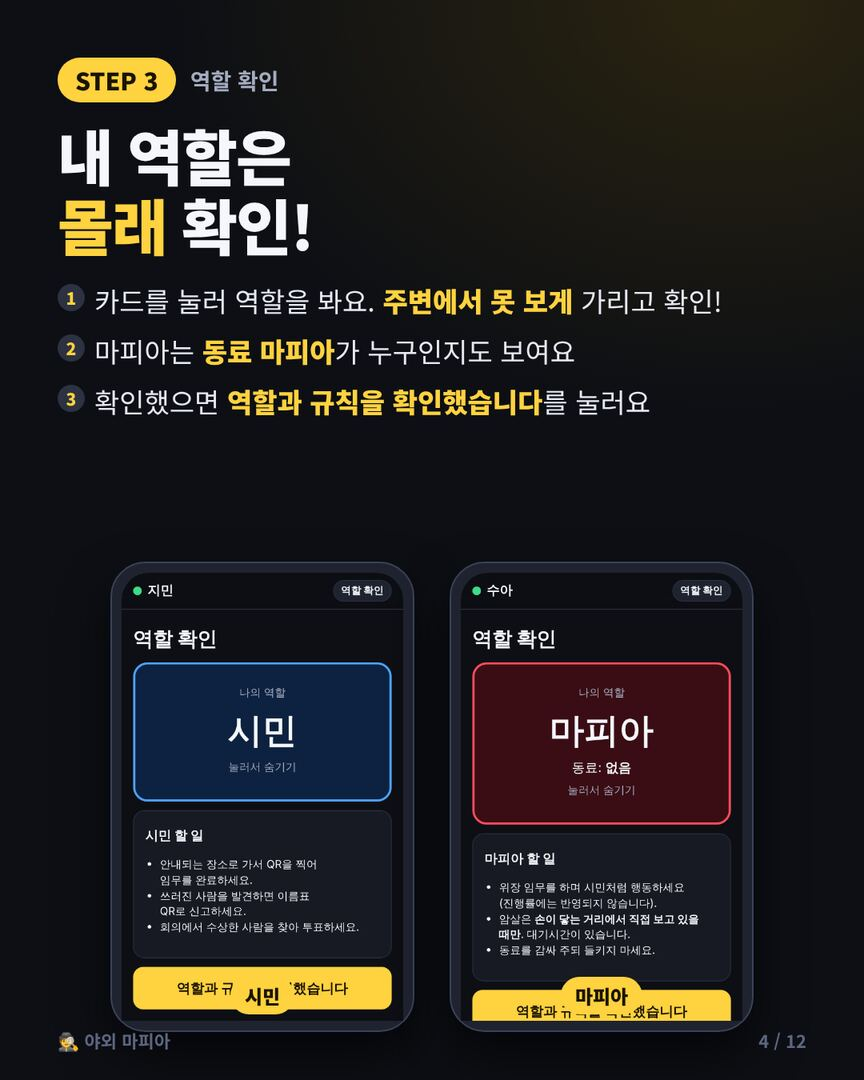
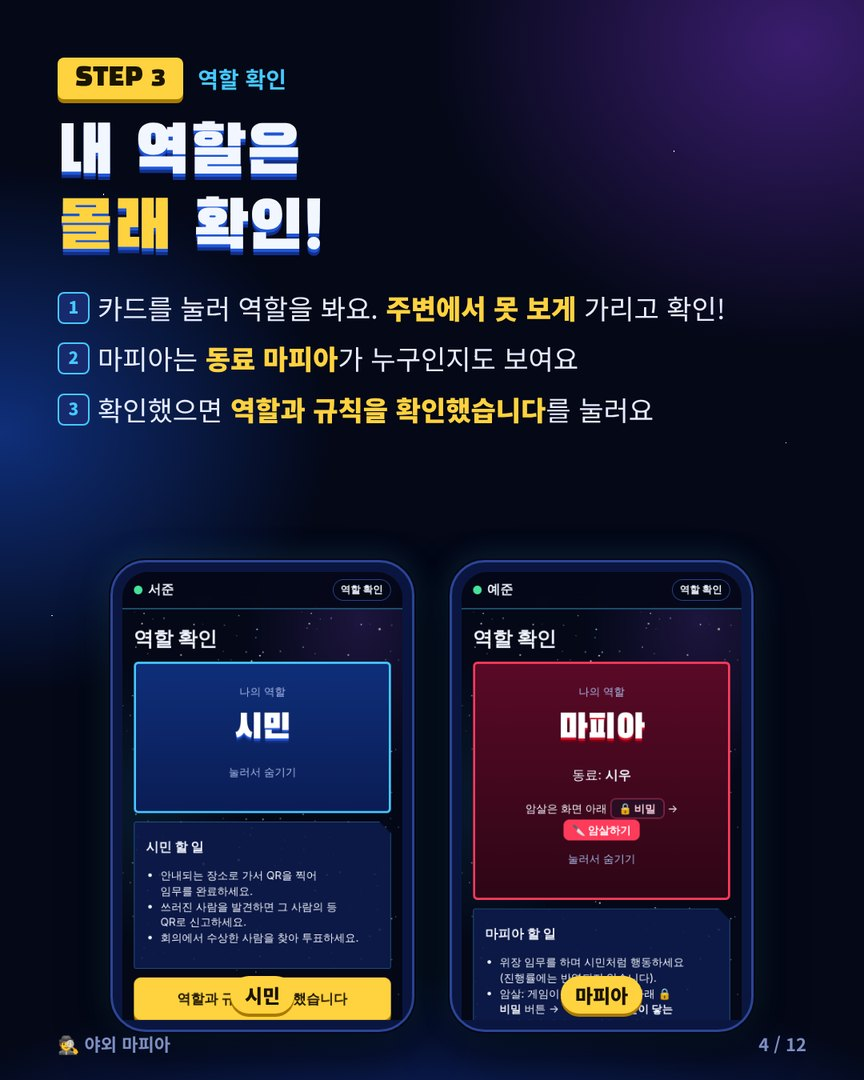
등 QR 방식으로 카드뉴스 12장 새로 만들고 앱 문구 맞춤
- 목걸이 이름표 대신 몸부착 QR을 등에 붙이는 방식: 입장 후 먼저 찍어 연결하고 등 한가운데 부착
- 암살당하면 이름표 뒤집기 대신 그 자리에 앉기, 신고는 앉아 있는 사람의 등 QR을 찍음
- 참가자·진행자 화면과 서버 안내·오류 문구를 '등 QR'로 통일
- 카드뉴스를 지금 앱(우주 배경) 화면으로 다시 캡처해 새로 만듦

Claude-Session: https://claude.ai/code/session_01FXkV2PMM3yd4z8X4jiyFVH

diff --git a/public/app.js b/public/app.js
@@ -184,7 +184,7 @@ function pushCard() {
 function onChange(prev, v) {
   Awake.set(v.settings && v.settings.keepAwake && !['lobby', 'ended'].includes(v.phase));
   if (!prev) {
-    // 휴대폰 카메라로 QR(주소)을 열고 들어온 경우: 대기 중이면 이름표 연결, 게임 중이면 임무·신고
+    // 휴대폰 카메라로 QR(주소)을 열고 들어온 경우: 대기 중이면 등 QR 연결, 게임 중이면 임무·신고
     if (S.pendingScan && v.phase !== 'briefing') { const s = S.pendingScan; S.pendingScan = null; setTimeout(() => handleScan('?s=' + s), 300); } // 휴대폰 카메라로 찍은 QR: 주소 형태 그대로 넘김(찍기 모드 암살 인정)
     else S.pendingScan = null;
     return;
@@ -293,7 +293,7 @@ function openGame(taskId, game, data, readyAt) {
   });
 }
 
-function openScan() { Scanner.open(S.view && S.view.phase === 'lobby' ? '내 목걸이 이름표 QR' : '장소 QR 또는 쓰러진 사람의 이름표', handleScan); }
+function openScan() { Scanner.open(S.view && S.view.phase === 'lobby' ? '내 등 QR' : '장소 QR 또는 쓰러진 사람의 등 QR', handleScan); }
 
 // 암살 성공: 마피아 화면만 붉게 한 번 반짝입니다.
 function killFlash() {
@@ -306,19 +306,19 @@ function killFlash() {
 const killByScan = () => !!(S.view && S.view.settings && S.view.settings.killByScan);
 const killReady = () => { const m = S.view && S.view.mafia; return !!m && m.killReadyAt <= serverNow() && !S.view.paused; };
 
-// 이름표 찍기 모드: 상대 목걸이 QR을 직접 찍어야 암살됩니다.
+// 등 QR 찍기 모드: 상대 등 QR을 직접 찍어야 암살됩니다.
 function openKillScan() {
-  Scanner.open('암살할 사람의 목걸이 이름표 QR', (val) => confirmKillByQr(val), { noManual: true });
+  Scanner.open('암살할 사람의 등 QR', (val) => confirmKillByQr(val), { noManual: true });
 }
 async function confirmKillByQr(val, name) {
   const v = S.view, m = v && v.mafia;
   if (!m) return;
-  if (!/[?&]s=[A-Za-z0-9]+/.test(String(val || ''))) return toast('코드 입력으로는 암살할 수 없습니다. 상대 목걸이 QR을 카메라로 직접 찍으세요.', 'bad', 3500);
+  if (!/[?&]s=[A-Za-z0-9]+/.test(String(val || ''))) return toast('코드 입력으로는 암살할 수 없습니다. 상대 등 QR을 카메라로 직접 찍으세요.', 'bad', 3500);
   // 서버와 같은 규칙으로 읽음: 링크(?s=P07)·P07·손으로 친 p7 모두 같은 코드
   let code = String(val || '').trim(); const q = code.match(/[?&]s=([A-Za-z0-9]+)/); if (q) code = q[1];
   code = code.toUpperCase(); const n = code.match(/^P0*(\d{1,2})$/); if (n) code = 'P' + String(Number(n[1])).padStart(2, '0');
   const t = name ? { name } : m.targets.find(x => x.code === code);
-  if (!t) return toast('암살할 수 있는 사람의 이름표가 아닙니다. (동료·탈락자·내 이름표는 안 됨)', 'bad', 3500);
+  if (!t) return toast('암살할 수 있는 사람의 등 QR이 아닙니다. (동료·탈락자·내 QR은 안 됨)', 'bad', 3500);
   const yes = await confirmBox(`${t.name} 님을 암살합니까?`, '실행하면 되돌릴 수 없습니다.', '암살 실행', true);
   if (!yes) return;
   const r = await act('kill', { qr: val });
@@ -414,17 +414,17 @@ function render() {
 
 function viewLobby(v) {
   const tag = v.me.tag, readyN = v.roster.filter(r => r.ready).length;
-  // 1단계: 이름표 QR 연결 → 2단계: 준비 완료. 이름표를 연결해야 준비할 수 있습니다.
+  // 1단계: 등 QR 연결 → 2단계: 준비 완료. 등 QR을 연결해야 준비할 수 있습니다.
   const step1 = tag
-    ? `<div class="card good center"><div class="stepno">1단계 완료</div><h3>내 이름표</h3><div class="big">🏷 ${String(tag).padStart(2, '0')}번</div><p class="small muted">이 번호의 목걸이를 차세요. 다른 번호를 찍으면 바뀝니다.</p></div>`
-    : `<div class="card hl center"><div class="stepno">1단계</div><h3>🏷 이름표 연결</h3><p>받은 목걸이 이름표 뒷면의 QR을 찍으세요.</p>
-        <button class="primary" data-a="scan" data-needs-online>📷 내 이름표 QR 찍기</button></div>`;
+    ? `<div class="card good center"><div class="stepno">1단계 완료</div><h3>내 등 QR</h3><div class="big">🏷 ${String(tag).padStart(2, '0')}번</div><p class="small muted">이 번호의 QR을 등에 붙이세요. 다른 번호를 찍으면 바뀝니다.</p></div>`
+    : `<div class="card hl center"><div class="stepno">1단계</div><h3>🏷 등 QR 연결</h3><p>받은 등 QR을 등에 붙이기 전에 먼저 찍으세요.</p>
+        <button class="primary" data-a="scan" data-needs-online>📷 내 등 QR 찍기</button></div>`;
   const step2 = !tag
-    ? `<div class="readybox locked"><div class="stepno">2단계</div><div class="rb-main">🔒 준비 완료</div><p>이름표를 연결하면 누를 수 있어요</p></div>`
+    ? `<div class="readybox locked"><div class="stepno">2단계</div><div class="rb-main">🔒 준비 완료</div><p>등 QR을 연결하면 누를 수 있어요</p></div>`
     : v.me.ready
       ? `<div class="readybox done"><div class="stepno">2단계 완료</div><div class="rb-main">✔ 준비 완료</div><p>진행자가 역할을 배정할 때까지 기다리세요</p>
           <button class="ghostbtn sm" data-a="ready" data-needs-online>준비 취소</button></div>`
-      : `<button class="readybox go" data-a="ready" data-needs-online><span class="stepno">2단계</span><span class="rb-main">✋ 준비 완료 누르기</span><span class="rb-sub">이름표를 찼으면 눌러 주세요</span></button>`;
+      : `<button class="readybox go" data-a="ready" data-needs-online><span class="stepno">2단계</span><span class="rb-main">✋ 준비 완료 누르기</span><span class="rb-sub">등 QR을 붙였으면 눌러 주세요</span></button>`;
   return `
     <div class="card hl center">
       <div class="phase">방 ${esc(v.code)}에서 기다리는 중</div>
@@ -436,7 +436,7 @@ function viewLobby(v) {
     <a class="guidebtn" href="/guide?room=${encodeURIComponent(v.code)}">📖 규칙 카드뉴스 보기 <span>기다리는 동안 읽어 보세요</span></a>
     <div class="card">
       <div class="row"><h3 style="margin:0">입장한 사람 ${v.roster.length}명</h3><b class="readycount">준비 ${readyN} / ${v.roster.length}</b></div>
-      <ul class="list" style="margin-top:8px">${v.roster.map(r => `<li><span class="name">${esc(r.name)}</span>${r.tag ? `<span class="chip">🏷 ${String(r.tag).padStart(2, '0')}</span>` : '<span class="chip dead">이름표 없음</span>'}${r.ready ? '<span class="pill ready">✔ 준비 완료</span>' : '<span class="pill wait">준비 중</span>'}</li>`).join('')}</ul>
+      <ul class="list" style="margin-top:8px">${v.roster.map(r => `<li><span class="name">${esc(r.name)}</span>${r.tag ? `<span class="chip">🏷 ${String(r.tag).padStart(2, '0')}</span>` : '<span class="chip dead">QR 없음</span>'}${r.ready ? '<span class="pill ready">✔ 준비 완료</span>' : '<span class="pill wait">준비 중</span>'}</li>`).join('')}</ul>
     </div>
     <div class="card">
       <h3>복구 코드</h3>
@@ -452,8 +452,8 @@ function rulesCard() {
     <ul class="small" style="padding-left:20px">
       <li><b>시민</b>: 장소 QR을 찍어 임무를 하고, 회의에서 마피아를 찾아 추방합니다. 임무를 모두 끝내거나 마피아를 모두 추방하면 승리.</li>
       <li><b>마피아</b>: 위장 임무를 하며 몰래 암살합니다. 살아 있는 마피아 수가 시민 수 이상이 되면 승리.</li>
-      <li><b>암살</b>: 손이 닿는 거리에서 상대를 직접 보고 있을 때만. 당한 사람은 이름표를 뒤집어 💀 면이 보이게 하고, 그 자리에 멈춰 말하지 않습니다.</li>
-      <li><b>신고</b>: 쓰러진 사람의 이름표 QR을 찍으면 회의가 열립니다. 직접 발견했을 때만 찍으세요.</li>
+      <li><b>암살</b>: 손이 닿는 거리에서 상대를 직접 보고 있을 때만. 당한 사람은 그 자리에 앉아 말없이 기다립니다.</li>
+      <li><b>신고</b>: 그 자리에 앉아 있는(쓰러진) 사람의 등 QR을 찍으면 회의가 열립니다. 직접 발견했을 때만 찍으세요.</li>
       <li><b>유령</b>: 회의 후 탈락자는 유령으로 임무만 계속합니다. 말하거나 힌트를 주면 안 됩니다.</li>
     </ul></details>`;
 }
@@ -466,7 +466,7 @@ function roleBlock(v, compact) {
     ${shown ? `<span class="muted small">나의 역할</span><span class="rname" ${compact ? 'style="font-size:32px"' : ''}>${ROLE_NAME[role]}</span>
       ${role === 'mafia' ? `<span class="rc-p">동료: <b>${mates.length ? mates.map(m => esc(m.name) + (m.out ? ' (탈락)' : '')).join(', ') : '없음'}</b></span>
         ${killByScan()
-          ? `<span class="rc-p killhow">암살은 상대 <b>목걸이 QR을 직접 찍어서</b>: 화면 아래 <span class="kbtn">🔒 비밀</span> → <span class="kbtn red">🔪 이름표 찍어 암살</span></span>`
+          ? `<span class="rc-p killhow">암살은 상대 <b>등 QR을 직접 찍어서</b>: 화면 아래 <span class="kbtn">🔒 비밀</span> → <span class="kbtn red">🔪 등 QR 찍어 암살</span></span>`
           : `<span class="rc-p killhow">암살은 화면 아래 <span class="kbtn">🔒 비밀</span> → <span class="kbtn red">🔪 암살하기</span></span>`}` : ''}
       <span class="rc-p small muted">눌러서 숨기기</span>`
     : `<span class="emoji">🂠</span><span class="rc-p" style="font-weight:800">눌러서 역할 보기</span><span class="rc-p small muted">주변에서 보지 않게 확인하세요</span>`}
@@ -480,8 +480,8 @@ function viewBriefing(v) {
     ${roleBlock(v)}
     <div class="card">
       ${role === 'mafia'
-        ? `<p><b>마피아 할 일</b></p><ul class="small" style="padding-left:20px"><li>위장 임무를 하며 시민처럼 행동하세요(진행률에는 반영되지 않습니다).</li><li>${killByScan() ? '암살: 상대의 <b>목걸이 이름표 QR을 직접 찍어야</b> 합니다. 화면 아래 <b>🔒 비밀</b> → <b>🔪 이름표 찍어 암살</b>, 또는 <b>📷 QR 스캔</b>으로 찍어도 됩니다. 대기시간이 있습니다.' : '암살: 게임이 시작되면 화면 아래 <b>🔒 비밀</b> 버튼 → <b>🔪 암살하기</b>. <b>손이 닿는 거리에서 직접 보고 있을 때만</b> 하세요. 대기시간이 있습니다.'}</li><li>동료를 감싸 주되 들키지 마세요.</li></ul>`
-        : `<p><b>시민 할 일</b></p><ul class="small" style="padding-left:20px"><li>안내되는 장소로 가서 QR을 찍어 임무를 완료하세요.</li><li>쓰러진 사람을 발견하면 이름표 QR로 신고하세요.</li><li>회의에서 수상한 사람을 찾아 투표하세요.</li></ul>`}
+        ? `<p><b>마피아 할 일</b></p><ul class="small" style="padding-left:20px"><li>위장 임무를 하며 시민처럼 행동하세요(진행률에는 반영되지 않습니다).</li><li>${killByScan() ? '암살: 상대의 <b>등 QR을 직접 찍어야</b> 합니다. 화면 아래 <b>🔒 비밀</b> → <b>🔪 등 QR 찍어 암살</b>, 또는 <b>📷 QR 스캔</b>으로 찍어도 됩니다. 대기시간이 있습니다.' : '암살: 게임이 시작되면 화면 아래 <b>🔒 비밀</b> 버튼 → <b>🔪 암살하기</b>. <b>손이 닿는 거리에서 직접 보고 있을 때만</b> 하세요. 대기시간이 있습니다.'}</li><li>동료를 감싸 주되 들키지 마세요.</li></ul>`
+        : `<p><b>시민 할 일</b></p><ul class="small" style="padding-left:20px"><li>안내되는 장소로 가서 QR을 찍어 임무를 완료하세요.</li><li>쓰러진 사람을 발견하면 그 사람의 등 QR로 신고하세요.</li><li>회의에서 수상한 사람을 찾아 투표하세요.</li></ul>`}
     </div>
     ${v.me.ack ? '<div class="card good center">✔ 확인 완료. 진행자가 시작할 때까지 기다리세요.</div>'
       : '<button class="primary" data-a="ack" data-needs-online>역할과 규칙을 확인했습니다</button>'}
@@ -525,7 +525,7 @@ function viewActive(v) {
         <p class="small" style="margin:10px 0 0">동료: <b>${v.mafia.mates.map(m => esc(m.name) + (m.out ? ' (탈락)' : '')).join(', ') || '없음'}</b></p>
         ${(() => {
           const ready = v.mafia.killReadyAt <= serverNow() && !v.paused;
-          return `<button class="danger" data-a="kill" data-needs-online ${ready ? '' : 'data-off="1"'} ${bigRed}>${ready ? (killByScan() ? '🔪 이름표 찍어 암살' : '🔪 암살하기') : `🔪 암살 대기 <span data-until="${v.mafia.killReadyAt}" ${v.paused ? `data-frozen="${v.mafia.killRemainMs}"` : ''} data-unit="kr" data-done="rerender"></span>`}</button>`;
+          return `<button class="danger" data-a="kill" data-needs-online ${ready ? '' : 'data-off="1"'} ${bigRed}>${ready ? (killByScan() ? '🔪 등 QR 찍어 암살' : '🔪 암살하기') : `🔪 암살 대기 <span data-until="${v.mafia.killReadyAt}" ${v.paused ? `data-frozen="${v.mafia.killRemainMs}"` : ''} data-unit="kr" data-done="rerender"></span>`}</button>`;
         })()}`
     : `<p class="small" style="margin:10px 0 0">명단은 회의에서 확인된 정보만 반영됩니다.</p>
         <button class="danger" data-a="bigList" ${bigRed}>📋 명단 크게 보기</button>`);
@@ -577,7 +577,7 @@ function viewDead() {
     <div class="big">당신은 쓰러졌습니다</div>
     <div class="card danger" style="text-align:left">
       <p>• <b>지금부터 말하지 마세요.</b></p>
-      <p>• 이름표를 뒤집어 <b>💀 사망 면(QR)</b>이 보이게 하고, 이 자리에서 발견될 때까지 기다리세요.</p>
+      <p>• <b>그 자리에 앉아</b> 발견될 때까지 기다리세요. 등 QR은 가리지 마세요.</p>
       <p>• 다른 곳에서 회의가 열리면 집결 장소로 이동하세요.</p>
       <p>• 회의가 끝나면 유령으로 임무를 이어 갑니다.</p>
     </div>

diff --git a/lib/game.js b/lib/game.js
@@ -37,7 +37,7 @@ const DEFAULT_SETTINGS = {
   taskGoalPct: 80,
   revealEjectedRole: false,
   keepAwake: true, // 게임 중 참가자 휴대폰 화면을 켜 둠(회의 알림을 놓치지 않게)
-  killByScan: false, // 켜면 암살은 상대 목걸이 이름표 QR을 직접 찍어야 함(손 닿는 거리 보장)
+  killByScan: false, // 켜면 암살은 상대 등 QR을 직접 찍어야 함(손 닿는 거리 보장)
   gatherPlace: '본부 (출발 장소)',
 };
 
@@ -193,18 +193,18 @@ function numberLocations(locs) {
 
 // 이름표 번호 연결. n이 0이면 연결 해제.
 function setTag(room, p, n) {
-  if (room.phase !== 'lobby') fail('이름표는 대기 단계에서만 바꿀 수 있습니다.');
+  if (room.phase !== 'lobby') fail('등 QR은 대기 단계에서만 바꿀 수 있습니다.');
   n = Math.round(Number(n));
-  if (!Number.isFinite(n) || n < 0 || n > MAX_TAG) fail(`이름표 번호는 1~${MAX_TAG}번입니다.`);
+  if (!Number.isFinite(n) || n < 0 || n > MAX_TAG) fail(`QR 번호는 1~${MAX_TAG}번입니다.`);
   if (n) {
     const other = Object.values(room.players).find(x => x.tag === n && x.id !== p.id);
-    if (other) fail(`이름표 ${pad2(n)}번은 이미 ${other.name} 님이 쓰고 있습니다.`);
+    if (other) fail(`등 QR ${pad2(n)}번은 이미 ${other.name} 님이 쓰고 있습니다.`);
   }
   p.tag = n || null;
   p.code = p.qr = n ? tagCode(n) : null;
   if (!n) p.ready = false; // 이름표 연결을 풀면 준비도 풀립니다
   bump(room);
-  return { kind: 'claimed', tag: p.tag, message: n ? `이름표 ${pad2(n)}번을 내 것으로 연결했습니다.` : '이름표 연결을 해제했습니다.' };
+  return { kind: 'claimed', tag: p.tag, message: n ? `등 QR ${pad2(n)}번을 내 것으로 연결했습니다.` : '등 QR 연결을 해제했습니다.' };
 }
 
 // 이름표가 없는 사람에게 남은 번호를 입장 순서대로 나눠 줍니다.
@@ -215,7 +215,7 @@ function assignTags(room) {
   for (const p of list(room)) {
     if (p.tag) continue;
     while (used.has(n)) n++;
-    if (n > MAX_TAG) fail('남은 이름표 번호가 없습니다.');
+    if (n > MAX_TAG) fail('남은 QR 번호가 없습니다.');
     used.add(n); p.tag = n; p.code = p.qr = tagCode(n);
   }
   bump(room);
@@ -261,7 +261,7 @@ function join(room, rawName) {
   do { recovery = String(crypto.randomInt(100000, 1000000)); } while (usedRec.has(recovery));
   const p = {
     id: rnd(8), name, token: token(), recovery,
-    tag: null, qr: null, code: null, // 이름표는 입장 후 자기 목걸이 QR을 찍어 연결
+    tag: null, qr: null, code: null, // 등 QR(몸부착 QR)은 입장 후 자기 QR을 찍어 연결
     joinedAt: Date.now(),
     role: null, status: 'alive', ack: false, ready: false,
     tasks: [], taskIdx: 0, emergencyLeft: 0, killReadyAt: null,
@@ -392,7 +392,7 @@ function validateSetup(room) {
   if (room.locations.length < 1) fail('장소를 1곳 이상 등록하세요.');
   // 이름표가 없으면 쓰러져도 신고할 수 없으므로 시작 전에 모두 연결해야 합니다.
   const noTag = list(room).filter(p => !p.tag);
-  if (noTag.length) fail(`이름표가 연결되지 않은 사람: ${noTag.map(p => p.name).join(', ')} (진행 탭의 "남은 번호 자동 배정"을 쓸 수 있습니다)`);
+  if (noTag.length) fail(`등 QR이 연결되지 않은 사람: ${noTag.map(p => p.name).join(', ')} (진행 탭의 "남은 번호 자동 배정"을 쓸 수 있습니다)`);
 }
 
 const qCopy = (sign) => (sign ? { question: sign.question, options: sign.options.slice(), answer: sign.answer } : null);
@@ -500,8 +500,8 @@ function ack(room, p) {
 
 function setReady(room, p, v) {
   if (room.phase !== 'lobby') fail('대기 단계가 아닙니다.');
-  // 자기 목걸이 이름표 QR을 연결해야 준비할 수 있습니다(쓰러졌을 때 신고 QR이 그 사람과 이어지도록).
-  if (v && !p.tag) fail('먼저 목걸이 이름표 QR을 찍어 연결하세요.');
+  // 자기 등 QR을 연결해야 준비할 수 있습니다(쓰러졌을 때 신고 QR이 그 사람과 이어지도록).
+  if (v && !p.tag) fail('먼저 내 등 QR을 찍어 연결하세요.');
   p.ready = !!v;
   bump(room);
 }
@@ -563,12 +563,12 @@ function kill(room, actor, targetId, seq, qr) {
   if (actor.status !== 'alive') fail('탈락한 마피아는 암살할 수 없습니다.');
   const t = now();
   if (t < actor.killReadyAt) fail(`아직 암살할 수 없습니다. ${Math.ceil((actor.killReadyAt - t) / 1000)}초 남았습니다.`);
-  // 이름표 찍기 모드: 상대 목걸이 QR을 찍은 값으로만 대상을 정합니다(목록에서 고를 수 없음).
+  // 등 QR 찍기 모드: 상대 등 QR을 찍은 값으로만 대상을 정합니다(목록에서 고를 수 없음).
   if (room.settings.killByScan || qr) {
     const r = qr ? resolveCode(room, qr) : null;
-    if (!r || r.kind !== 'player') fail(room.settings.killByScan ? '상대의 목걸이 이름표 QR을 찍어야 암살할 수 있습니다.' : '이름표 QR이 아닙니다.');
+    if (!r || r.kind !== 'player') fail(room.settings.killByScan ? '상대의 등 QR을 찍어야 암살할 수 있습니다.' : '등 QR이 아닙니다.');
     // 찍기 모드에서는 손으로 친 코드(P07)를 받지 않습니다. 인쇄한 QR에는 주소(…/?s=P07)가 들어 있어 카메라로 찍은 것과 구별됩니다.
-    if (room.settings.killByScan && !/[?&]s=[A-Za-z0-9]+/.test(String(qr))) fail('코드 입력으로는 암살할 수 없습니다. 상대 목걸이 QR을 카메라로 직접 찍으세요.');
+    if (room.settings.killByScan && !/[?&]s=[A-Za-z0-9]+/.test(String(qr))) fail('코드 입력으로는 암살할 수 없습니다. 상대 등 QR을 카메라로 직접 찍으세요.');
     targetId = r.p.id;
   }
   const target = room.players[targetId];
@@ -621,13 +621,13 @@ function scan(room, p, raw, seq) {
   if (room.phase === 'ended') fail('게임이 종료되었습니다.');
   if (room.paused) fail('일시 정지 중입니다.');
   if (room.phase === 'lobby') {
-    // 대기 중에 자기 목걸이 QR을 찍으면 이름표 연결
+    // 대기 중에 자기 등 QR을 찍으면 연결
     const s = normalizeScan(raw);
     const t = s.match(/^P(\d\d)$/);
     if (t && Number(t[1]) >= 1) return setTag(room, p, Number(t[1]));
     const loc = room.locations.find(l => l.code === s);
     if (loc) return { kind: 'info', message: `장소 ${loc.no}번 (${loc.name}) — 게임이 시작되면 임무에 씁니다.` };
-    fail('알 수 없는 코드입니다. 목걸이 이름표 QR을 찍으세요.');
+    fail('알 수 없는 코드입니다. 등 QR을 찍으세요.');
   }
   if (!room.startedAt) fail('게임이 아직 시작되지 않았습니다.');
   checkSeq(room, seq);
@@ -636,7 +636,7 @@ function scan(room, p, raw, seq) {
 
   if (r.kind === 'player') {
     const q = r.p;
-    if (q.id === p.id) return { kind: 'self', message: '내 이름표입니다.' };
+    if (q.id === p.id) return { kind: 'self', message: '내 등 QR입니다.' };
     if (q.status === 'dead') {
       const canReport = room.phase === 'active' && p.status === 'alive';
       return {

diff --git a/public/host.js b/public/host.js
@@ -142,11 +142,11 @@ function tabRun(v) {
       <div class="grid2"><div class="stat"><b>${n}</b>입장</div><div class="stat"><b>${v.players.filter(p => p.ready).length}</b>준비</div></div>
       <div class="card"><p>배정 예정: 마피아 <b>${m}</b>명 · 시민 <b>${Math.max(0, n - m)}</b>명 <button class="sm" data-tab="settings">변경</button></p>
         ${okSetup ? '' : `<p style="color:var(--warn)">${n < 3 ? '최소 3명이 필요합니다.' : '마피아는 시민보다 적어야 합니다.'}</p>`}
-        ${noTag.length ? `<p style="color:var(--warn)">🏷 이름표 미연결 ${noTag.length}명: ${noTag.map(p => esc(p.name)).join(', ')}</p>
+        ${noTag.length ? `<p style="color:var(--warn)">🏷 등 QR 미연결 ${noTag.length}명: ${noTag.map(p => esc(p.name)).join(', ')}</p>
           <button data-run="assignTags" style="margin-bottom:10px">남은 번호 자동 배정</button>
-          <p class="small muted">자동 배정 후 참가자 화면에 뜬 번호의 목걸이를 나눠 주세요.</p>` : (n ? '<p style="color:var(--good)">🏷 모두 이름표 연결 완료</p>' : '')}
+          <p class="small muted">자동 배정 후 참가자 화면에 뜬 번호의 등 QR을 나눠 주세요.</p>` : (n ? '<p style="color:var(--good)">🏷 모두 등 QR 연결 완료</p>' : '')}
         <button class="primary" data-run="assign" ${okSetup && !noTag.length ? '' : 'disabled'}>역할 무작위 배정</button>
-        <p class="small muted">참가자는 입장한 뒤 자기 목걸이 QR을 찍어 이름표를 연결합니다.</p>
+        <p class="small muted">참가자는 입장한 뒤 자기 등 QR을 찍어 연결하고 등에 붙입니다.</p>
       </div>`;
   } else if (v.phase === 'briefing') {
     const acked = v.players.filter(p => p.ack).length;
@@ -243,7 +243,7 @@ function tabSettings(v) {
     <label>회의 집결 장소</label><input name="gatherPlace" value="${esc(s.gatherPlace)}" ${locked ? 'disabled' : ''}>
     <label class="check"><input type="checkbox" name="revealEjectedRole" ${s.revealEjectedRole ? 'checked' : ''} ${locked ? 'disabled' : ''}> 추방된 사람의 역할 공개</label>
     <label class="check"><input type="checkbox" name="keepAwake" ${s.keepAwake !== false ? 'checked' : ''} ${locked ? 'disabled' : ''}> 게임 중 참가자 화면 켜 두기 (회의 알림을 놓치지 않게, 배터리 조금 더 씀)</label>
-    <label class="check"><input type="checkbox" name="killByScan" ${s.killByScan ? 'checked' : ''} ${locked ? 'disabled' : ''}> 암살은 상대 목걸이 이름표 QR을 직접 찍어야 함 (손 닿는 거리에서만 가능, 이름 목록으로는 암살 불가)</label>
+    <label class="check"><input type="checkbox" name="killByScan" ${s.killByScan ? 'checked' : ''} ${locked ? 'disabled' : ''}> 암살은 상대 등 QR을 직접 찍어야 함 (손 닿는 거리에서만 가능, 이름 목록으로는 암살 불가)</label>
     ${locked ? '' : '<button class="primary" style="margin-top:12px">설정 저장</button>'}
   </form>
   <div class="card"><h3>설정 파일</h3>
@@ -274,9 +274,9 @@ function tabPlaces(v) {
         <a class="btn" href="${printBase}&what=blankTags&n=40&side=back" target="_blank"><b>이름표 뒷면</b><small>양면 인쇄용</small></a>
         <a class="btn wide" href="${printBase}&what=blankTags&n=40" target="_blank"><b>이름표 01~40</b><small>앞뒤 나란히, 접어서</small></a>
       </div>
-      <p class="small muted">몸 부착용은 A4 일반 종이에 인쇄해 점선을 따라 자르고, QR 위아래 띠에 테이프를 붙여 옷에 고정하세요(QR 위로는 테이프를 붙이지 마세요. 반사돼 안 찍혀요). 목걸이 이름표와 같은 QR이라 몸에 붙인 QR을 찍어도 같은 사람으로 인식됩니다. 한 사람에게 같은 번호 2장(예: 등과 가슴)을 주세요.</p>
+      <p class="small muted">몸 부착용(등 QR)은 A4 일반 종이에 인쇄해 점선을 따라 자르고, QR 위아래 띠에 테이프를 붙여 <b>등</b>에 고정하세요(QR 위로는 테이프를 붙이지 마세요. 반사돼 안 찍혀요). 참가자는 등에 붙이기 전에 자기 QR을 먼저 찍어 연결합니다. 한 장에 같은 번호가 2장씩 나오니 1장은 예비로 두세요. 목걸이 이름표와 번호가 같아서 둘 중 무엇을 찍어도 같은 사람으로 인식됩니다.</p>
       <p class="small muted">이름표는 한 줄에 같은 사람의 <b>앞면(이름 칸)과 뒷면(💀 사망 + QR)</b>이 나란히 나와 A4 한 장에 2명입니다. 한 면만 인쇄해 바깥 점선을 자르고, 가운데 노란 점선에서 반으로 접으면 됩니다(01~40번은 20장). 양면 프린터가 있으면 '이름표 앞면'과 '이름표 뒷면'을 따로 뽑아 양면으로 인쇄하세요.</p>
-      <p class="small muted">장소 QR은 01~10번으로 고정입니다. 10장을 한 번 뽑아 두면 모든 방·행사에서 그대로 씁니다. 장소를 5곳만 쓰면 01~05번만 붙이면 됩니다. 참가자는 입장 후 자기 목걸이 QR을 찍어 이름표를 연결합니다.</p></div>
+      <p class="small muted">장소 QR은 01~10번으로 고정입니다. 10장을 한 번 뽑아 두면 모든 방·행사에서 그대로 씁니다. 장소를 5곳만 쓰면 01~05번만 붙이면 됩니다. 참가자는 입장 후 자기 등 QR을 찍어 연결합니다.</p></div>
     ${locked ? '<div class="card">장소는 대기 단계에서만 바꿀 수 있습니다.</div>' : ''}
     <div id="locs">${H.locDraft.map((l, i) => `<div class="locedit" data-i="${i}">
       <div class="row"><input data-f="name" value="${esc(l.name)}" placeholder="장소 ${i + 1}" ${locked ? 'disabled' : ''} style="flex:3">

diff --git a/public/screen.js b/public/screen.js
@@ -65,7 +65,7 @@ function viewOf(v) {
       return `<div class="scr-grid"><div class="scr-join"><img src="/qr.svg?text=${encodeURIComponent(joinUrl)}" alt="입장 QR"><p class="scr-url">${esc(joinUrl.replace(/^https?:\/\//, ''))}</p></div>
         <div><div class="scr-kicker">방 코드</div><div class="scr-code">${esc(v.code)}</div>
         <div class="scr-stats"><div><b>${ps.length}</b>입장</div><div><b class="ok">${ps.filter(p => p.ready).length}</b>준비 완료</div></div>
-        ${waitLists(ps.filter(p => !p.ready), ps.filter(p => p.ready), '아직 준비 안 함', '준비 완료', p => (p.tag ? '' : '이름표 미연결'))}</div></div>`;
+        ${waitLists(ps.filter(p => !p.ready), ps.filter(p => p.ready), '아직 준비 안 함', '준비 완료', p => (p.tag ? '' : '등 QR 미연결'))}</div></div>`;
     }
     case 'briefing':
       return `<div class="scr-center"><div class="scr-title">역할 확인 중</div><div class="scr-big">${ps.filter(p => p.ack).length} / ${ps.length}</div><p class="scr-sub">각자 휴대폰에서 몰래 역할을 확인하세요</p>

diff --git a/test/missions.test.js b/test/missions.test.js
@@ -88,8 +88,8 @@ console.log('\n[암살: 이름표 QR 찍기 모드]');
   const [m1, m2] = G.list(r2).filter(x => x.role === 'mafia');
   const [c1, c2] = G.list(r2).filter(x => x.role === 'citizen');
   m1.killReadyAt = 0;
-  throws(() => G.kill(r2, m1, c1.id, r2.phaseSeq), /이름표 QR을 찍어야/, '목록(이름)으로는 암살 불가');
-  throws(() => G.kill(r2, m1, null, r2.phaseSeq, r2.locations[0].code), /이름표 QR을 찍어야/, '장소 QR로는 불가');
+  throws(() => G.kill(r2, m1, c1.id, r2.phaseSeq), /등 QR을 찍어야/, '목록(이름)으로는 암살 불가');
+  throws(() => G.kill(r2, m1, null, r2.phaseSeq, r2.locations[0].code), /등 QR을 찍어야/, '장소 QR로는 불가');
   throws(() => G.kill(r2, m1, null, r2.phaseSeq, '?s=' + m2.code), /동료/, '동료 이름표는 불가');
   throws(() => G.kill(r2, m1, null, r2.phaseSeq, '?s=' + m1.code), /자신/, '내 이름표는 불가');
   const res = G.kill(r2, m1, c2.id, r2.phaseSeq, 'https://x.dev/?s=' + c1.code.toLowerCase());

diff --git a/public/scanner.js b/public/scanner.js
@@ -37,7 +37,7 @@ const Scanner = (() => {
         <div id="scanMsg" style="position:absolute;top:12px;left:12px;right:12px;text-align:center;font-weight:800;text-shadow:0 2px 6px #000">${esc(title)}<br><span class="small">QR을 네모 안에 맞추세요</span></div>
       </div>
       <div class="bottom">
-        ${opts.noManual ? '<p class="small" style="margin:0 0 4px;text-align:center;color:var(--muted)">코드 입력 없이, 카메라로 목걸이 QR을 직접 찍어야 합니다.</p>' : ''}
+        ${opts.noManual ? '<p class="small" style="margin:0 0 4px;text-align:center;color:var(--muted)">코드 입력 없이, 카메라로 상대 등 QR을 직접 찍어야 합니다.</p>' : ''}
         <form id="codeForm" class="row" autocomplete="off" ${opts.noManual ? 'hidden' : ''}>
           <input id="codeInput" class="code" maxlength="12" placeholder="코드 입력" inputmode="text" autocapitalize="characters" style="flex:2">
           <button class="primary" style="flex:1">확인</button>

diff --git a/public/guide.html b/public/guide.html
@@ -27,7 +27,7 @@
 <a class="go" id="go" href="/">게임 입장하기</a>
 <script>
   // 카드뉴스 12장을 위아래로 넘겨 봅니다. ?room=ABCD 로 열면 아래 버튼이 그 방 입장으로 갑니다.
-  var names = ['표지', '입장하기', '이름표 연결', '역할 확인', '팀과 목표', '임무하기', '미니게임 10종', '암살과 쓰러짐', '진행자 옵션: 이름표 찍기 암살', '신고와 긴급회의', '회의와 투표', '꼭 지켜요'];
+  var names = ['표지', '입장하기', '등 QR 연결', '역할 확인', '팀과 목표', '임무하기', '미니게임 10종', '암살과 쓰러짐', '진행자 옵션: 등 QR 찍기 암살', '신고와 긴급회의', '회의와 투표', '꼭 지켜요'];
   var box = document.getElementById('cards'), pos = document.getElementById('pos');
   names.forEach(function (n, i) {
     var img = document.createElement('img');
